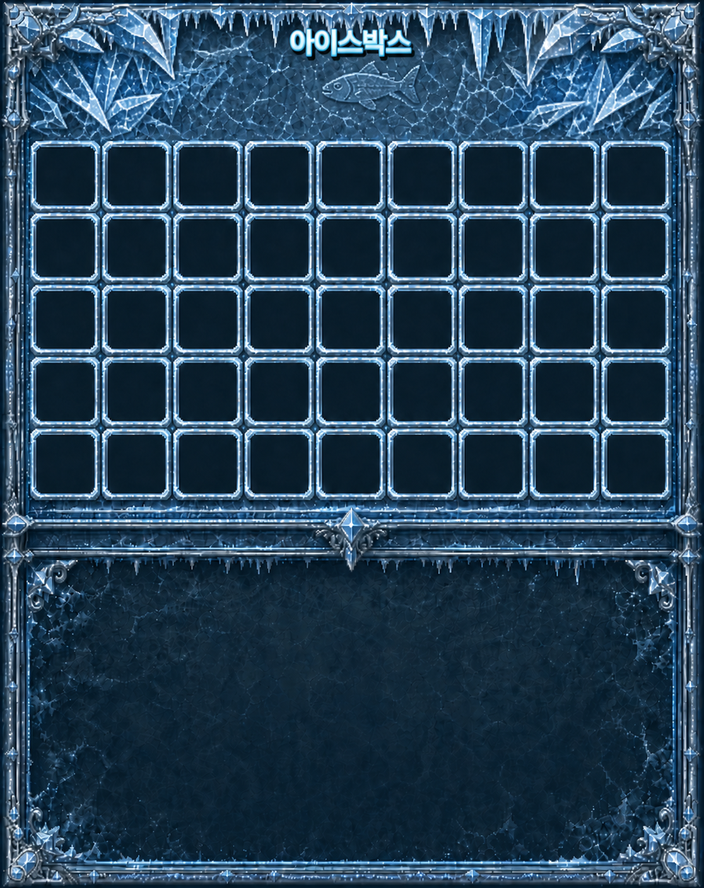
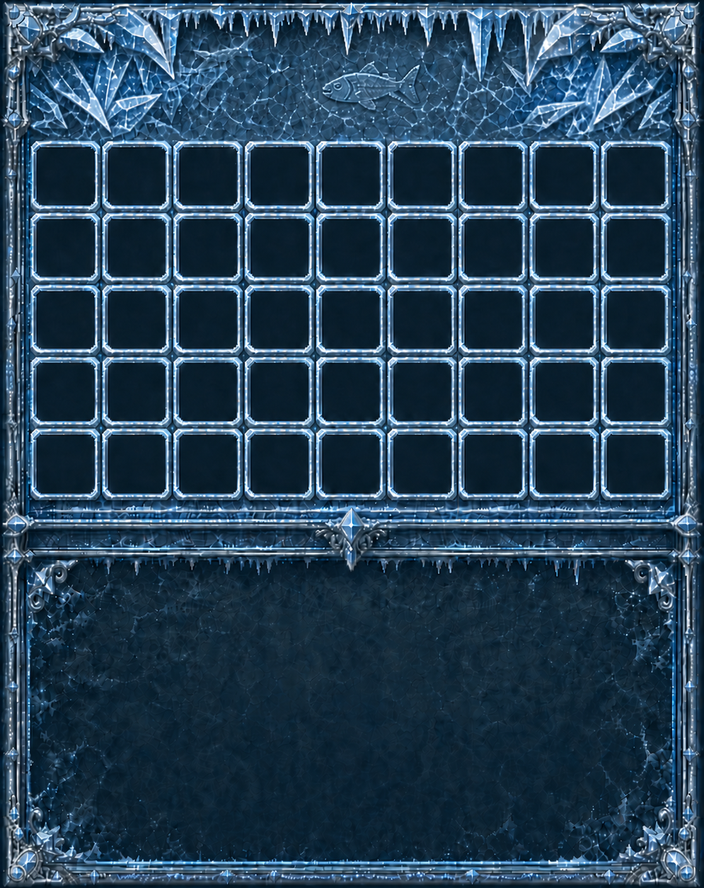
아이스박스 배경 최종본 + 글리프 (U+E6A0~E6AB)
45칸 소켓은 아트에 이미 그려져 있어 여기서는 플레이어 인벤 격자만 더한다.

diff --git a/gui-forge/build_icebox_bg.py b/gui-forge/build_icebox_bg.py
@@ -1,0 +1,61 @@
+#!/usr/bin/env python3
+"""아이스박스 배경 조립 — 전용 판 1장을 글리프 12타일로 굽는다.
+
+## 0행은 그림이다
+최종 아트에서 **머리줄을 없애고 5행 45칸만** 남겼다(2026-08-08 유저 확정).
+그래서 0행(슬롯 0~8)에는 아이템을 올리지 않는다 — 올리면 고드름·성에 장식을 덮는다.
+원래 0행에 있던 것들의 새 자리는 IceboxGui 주석 참고.
+
+## 보관칸 소켓은 굽지 않는다
+45칸 소켓은 **아트에 이미 그려져 있다**. 여기서는 플레이어 인벤 격자만 더한다.
+
+입력:  src/icebox/bg_source.png  704x888 불투명
+산출:  <RP>/assets/barkan/textures/gui/icebox_r{0..3}c{0..2}.png (12타일)
+       gui.json provider 병합(멱등) + _glyph.txt, _preview_full.png
+"""
+import json
+import os
+
+from PIL import Image
+
+import build_common6_bg as c6
+
+HERE = os.path.dirname(os.path.abspath(__file__))
+SRC = os.path.join(HERE, "src", "icebox")
+PREFIX = "icebox_"
+CODE0 = 0xE6A0          # E670 메뉴 · E680 내정보 · E690 상점 다음 자리
+
+
+def main():
+    im = Image.open(os.path.join(SRC, "bg_source.png")).convert("RGBA")
+    assert im.size == (c6.W, c6.H), f"배경판 크기 {im.size} != {(c6.W, c6.H)}"
+    c6.draw_inventory(im)
+
+    os.makedirs(c6.OUTDIR, exist_ok=True)
+    for f in os.listdir(c6.OUTDIR):
+        if f.startswith(PREFIX):
+            os.remove(os.path.join(c6.OUTDIR, f))
+    provs, glyph = [], []
+    for i, (tile, box, gw, gh, gx, gy) in enumerate(c6.tiles()):
+        crop = im.crop(box)
+        assert max(crop.size) <= 256, f"{tile} {crop.size} — 아틀라스 256px 초과"
+        crop.save(os.path.join(c6.OUTDIR, f"{PREFIX}{tile}.png"))
+        ch = chr(CODE0 + i)
+        provs.append({"type": "bitmap", "file": f"barkan:gui/{PREFIX}{tile}.png",
+                      "ascent": 13 - gy, "height": gh, "chars": [ch]})
+        glyph.append("\\uf801" if i == 0 else ("\\uf803" if gx == 0 else "\\uf802"))
+        glyph.append(f"\\u{ord(ch):04x}")
+
+    d = json.load(open(c6.FONT_JSON, encoding="utf-8"))
+    kept = [p for p in d["providers"] if PREFIX not in str(p.get("file", ""))]
+    d["providers"] = kept + provs
+    json.dump(d, open(c6.FONT_JSON, "w", encoding="utf-8"), ensure_ascii=False, indent=2)
+
+    open(os.path.join(SRC, "_glyph.txt"), "w", encoding="utf-8").write("".join(glyph))
+    im.save(os.path.join(SRC, "_preview_full.png"))
+    print(f"  타일 {len(provs)}개 (U+{CODE0:04X}~U+{CODE0 + len(provs) - 1:04X}) "
+          f"· gui.json 기존 {len(kept)}개 보존 → {c6.OUTDIR}")
+
+
+if __name__ == "__main__":
+    main()
